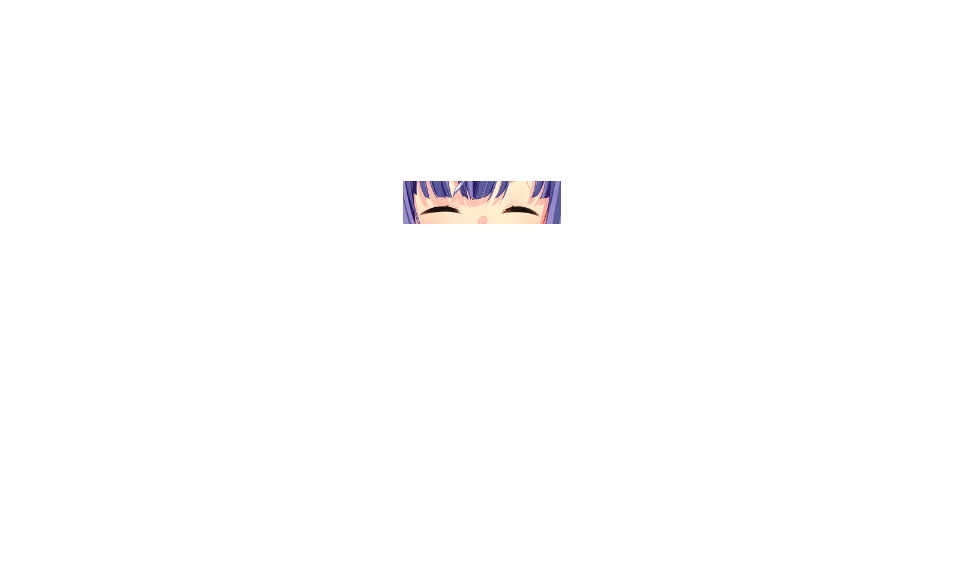
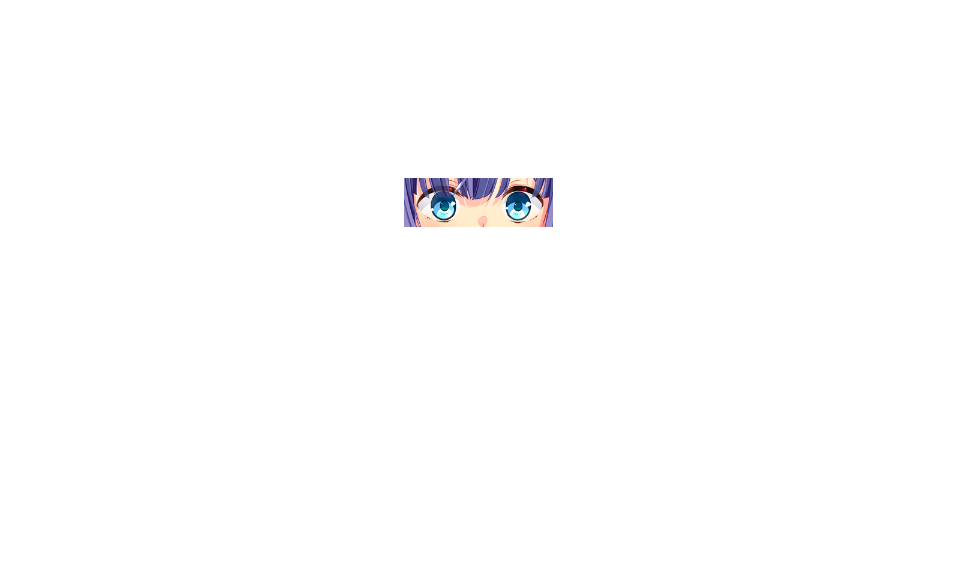
v

Changed region(s): [[0.4054, 0.2998, 0.5925, 0.4198]]

diff --git a/index.html b/index.html
@@ -118,7 +118,7 @@
 <span class="animated ib shadow-btn face-btn" data-face-url="nu/mi/me5.PNG"><img src="nu/mi/me5 - コピー.PNG" style="width:30px;"><br>目5</span>
 <span class="animated ib shadow-btn face-btn" data-face-url="nu/mi/me6.PNG"><img src="nu/mi/me6 - コピー.PNG" style="width:30px;"><br>目6</span>
 <span class="animated ib shadow-btn face-btn" data-face-url="nu/mi/me7.PNG"><img src="nu/mi/me7 - コピー.PNG" style="width:30px;"><br>目7</span>
-<span class="animated ib shadow-btn face-btn" data-face-url="nu/mi/me8.PNG"><img src="nu/mi/me7 - コピー.PNG" style="width:30px;"><br>目8</span>
+<span class="animated ib shadow-btn face-btn" data-face-url="nu/mi/me8.PNG"><img src="nu/mi/me8 - コピー.PNG" style="width:30px;"><br>目8</span>
 <span class="animated ib shadow-btn face-btn" data-face-url="nu/mi/kuti0.PNG"><img src="nu/mi/kuti0 - コピー.PNG" style="width:30px;"><br>口0</span>
 <span class="animated ib shadow-btn face-btn" data-face-url="nu/mi/kuti1.PNG"><img src="nu/mi/kuti1 - コピー.PNG" style="width:30px;"><br>口1</span>
 <span class="animated ib shadow-btn face-btn" data-face-url="nu/mi/kuti2.PNG"><img src="nu/mi/kuti2 - コピー.PNG" style="width:30px;"><br>口2</span>
